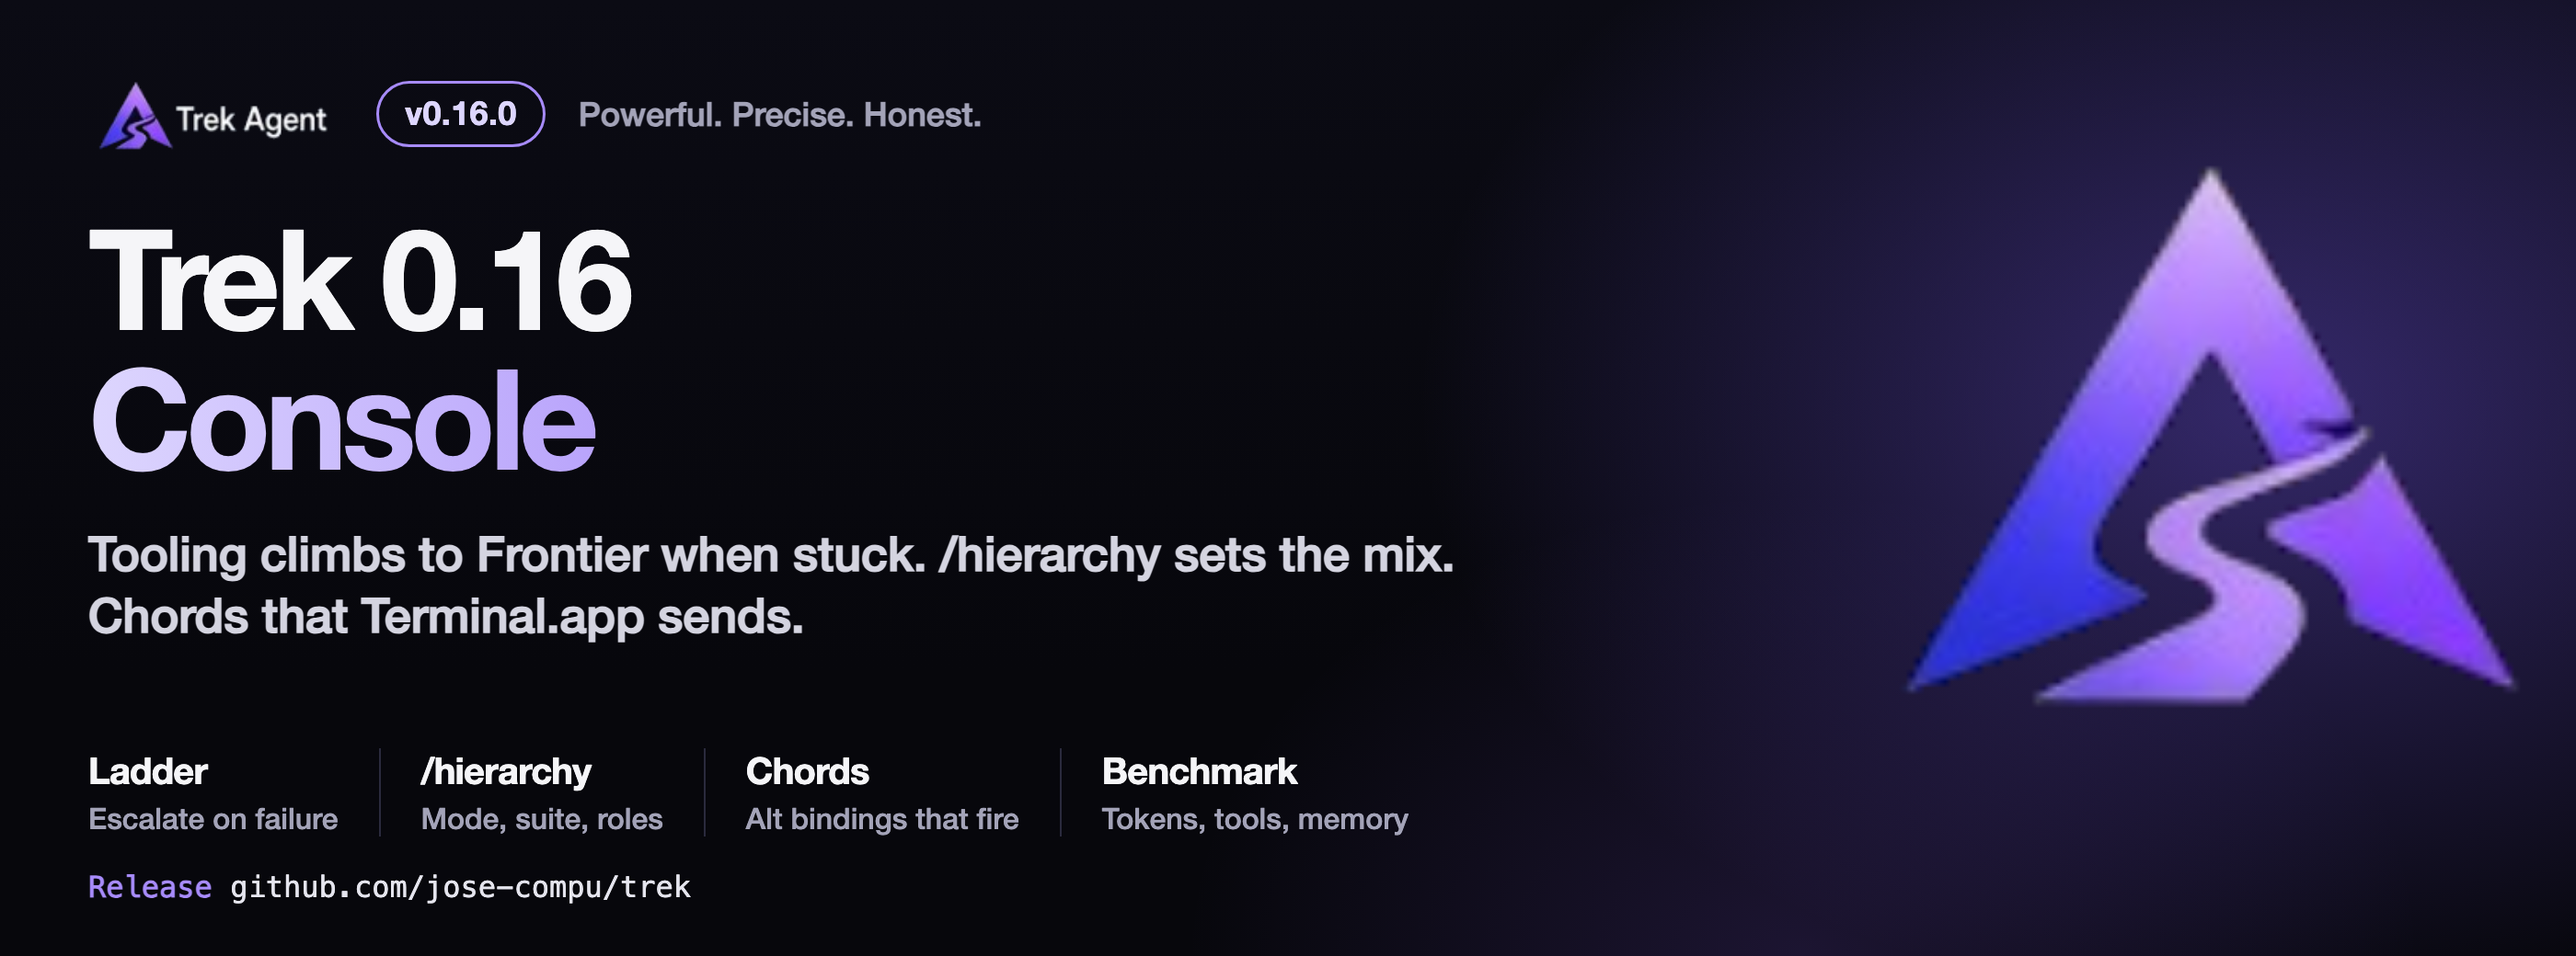
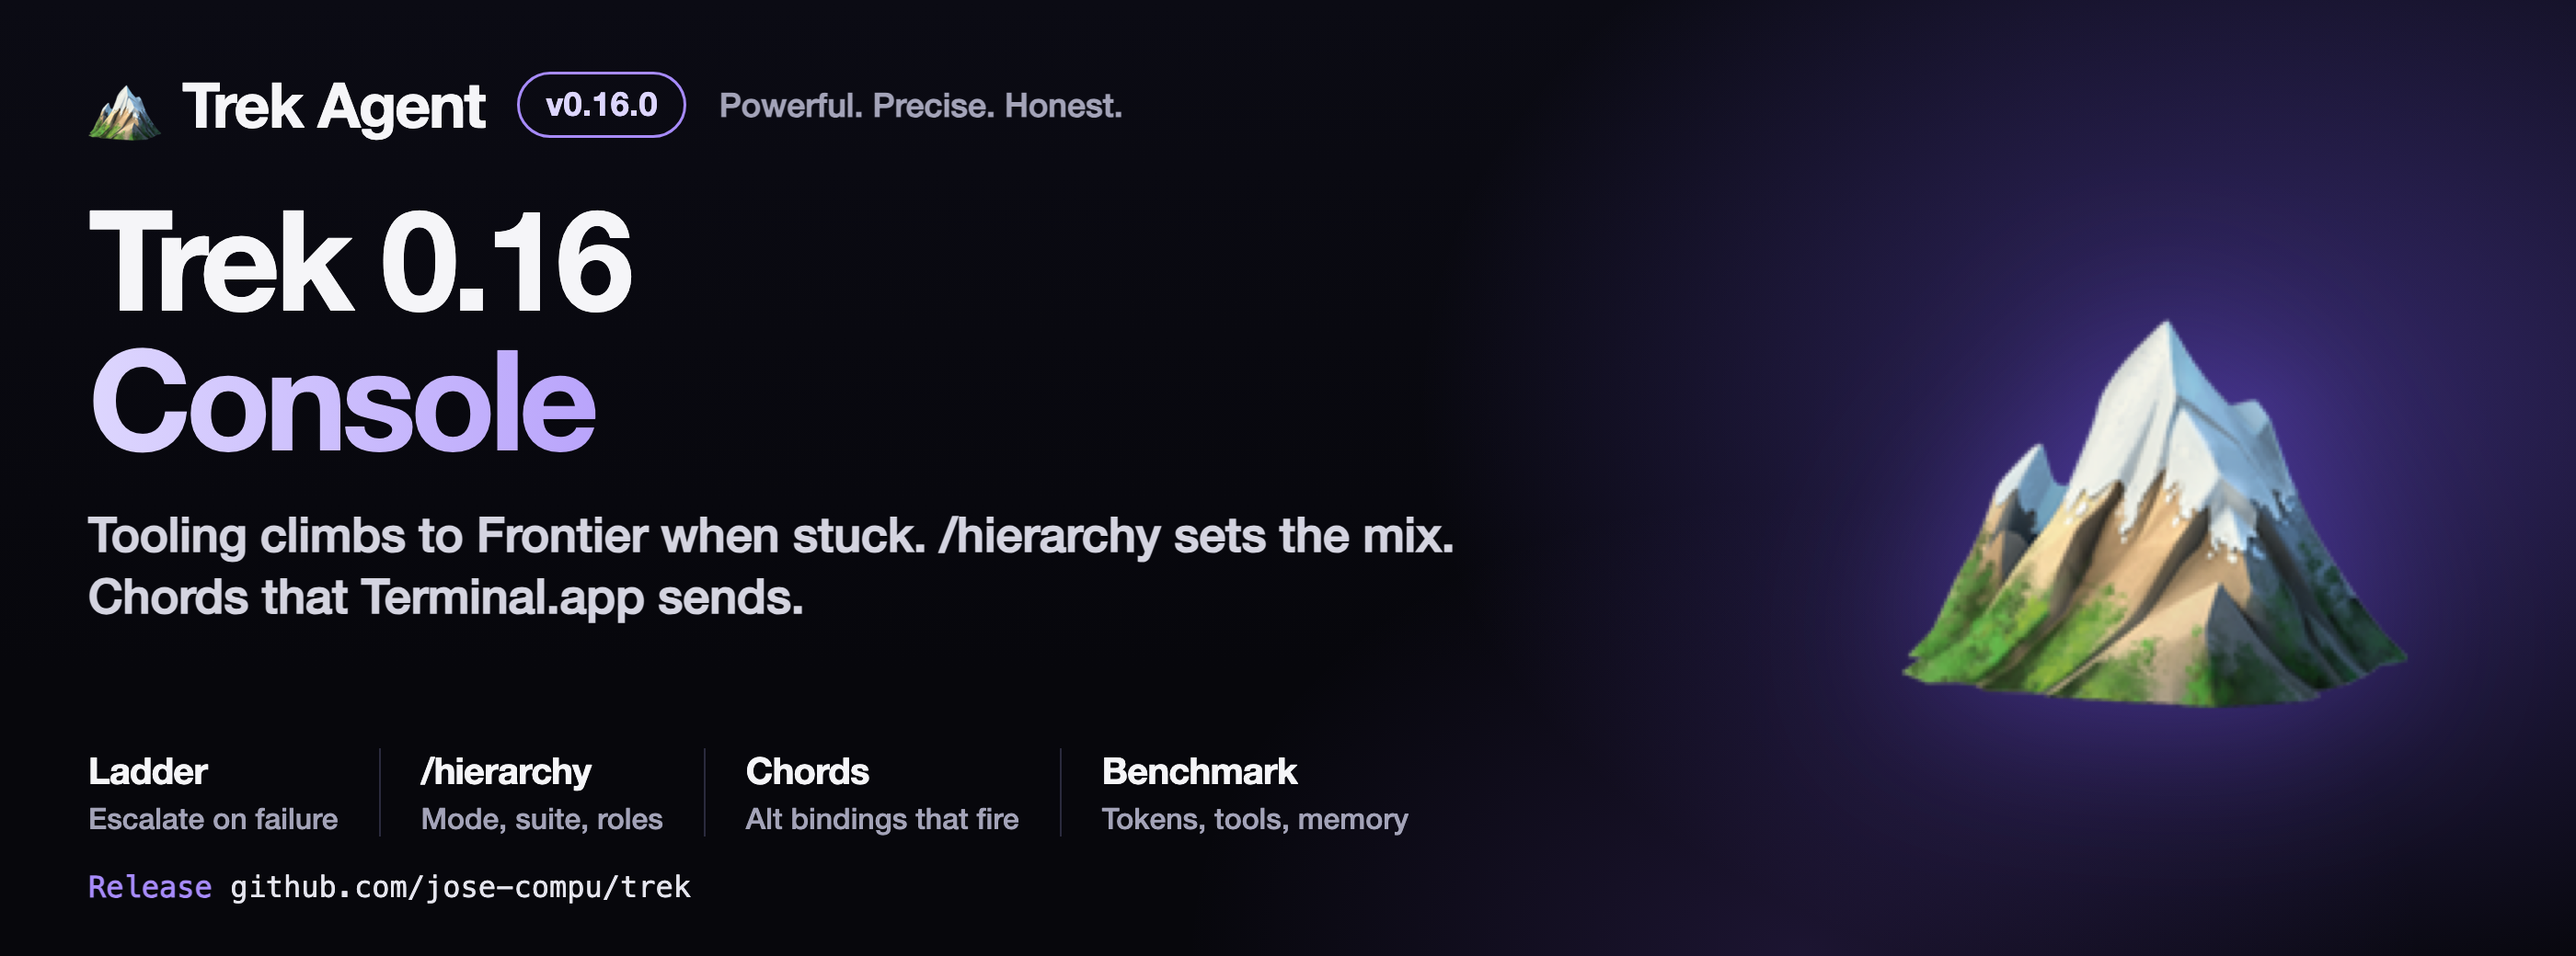
Use the mountain emoji as the Trek mark.
Banner, cheatsheet, and the interactive header show 🏔 instead of the low-res clipped triangle.

diff --git a/assets/banner.html b/assets/banner.html
@@ -3,7 +3,6 @@
 <head>
 <meta charset="utf-8" />
 <title>Trek Agent 0.16</title>
-<!-- Logos are clipped from brand/trek-identity.jpg by scripts/clip-brand-logos.sh. Do not redraw them here. -->
 <style>
   :root {
     --void: #07070c;
@@ -32,12 +31,17 @@
   }
   .mark {
     position: absolute;
-    right: 28px;
+    right: 48px;
     top: 70px;
     width: 360px;
     height: 360px;
-    object-fit: contain;
+    display: flex;
+    align-items: center;
+    justify-content: center;
+    font-size: 280px;
+    line-height: 1;
     pointer-events: none;
+    filter: drop-shadow(0 0 48px rgba(124, 92, 255, 0.45));
   }
   .inner {
     position: relative;
@@ -49,7 +53,16 @@
   }
   .copy { max-width: 920px; }
   .head { display: flex; align-items: center; gap: 18px; }
-  .lockup { height: 52px; width: auto; }
+  .lockup {
+    display: flex;
+    align-items: center;
+    gap: 12px;
+    font-size: 34px;
+    font-weight: 750;
+    letter-spacing: -0.03em;
+    color: var(--text);
+  }
+  .lockup .emoji { font-size: 40px; line-height: 1; }
   .badge {
     border: 1.5px solid var(--glow);
     color: #ddd6fe;
@@ -112,11 +125,11 @@
 </head>
 <body>
   <div class="banner">
-    <img class="mark" src="brand/logos/mark-hero.png" alt="" />
+    <div class="mark" aria-hidden="true">🏔</div>
     <div class="inner">
       <div class="copy">
         <header class="head">
-          <img class="lockup" src="brand/logos/lockup-dark-full.png" alt="Trek Agent" />
+          <div class="lockup"><span class="emoji" aria-hidden="true">🏔</span> Trek Agent</div>
           <div class="badge">v0.16.0</div>
           <div class="tagline">Powerful. Precise. Honest.</div>
         </header>

diff --git a/assets/cheatsheet.html b/assets/cheatsheet.html
@@ -37,7 +37,16 @@
     gap: 18px;
     padding: 8px 8px 4px;
   }
-  .lockup { height: 54px; width: auto; }
+  .lockup {
+    display: flex;
+    align-items: center;
+    gap: 12px;
+    font-size: 32px;
+    font-weight: 750;
+    letter-spacing: -0.03em;
+    color: var(--ink);
+  }
+  .lockup .emoji { font-size: 40px; line-height: 1; }
   h1 {
     font-size: 42px;
     line-height: 0.95;
@@ -148,7 +157,7 @@
 <body>
   <div class="sheet">
     <header>
-      <img class="lockup" src="brand/logos/lockup-light-violet.png" alt="Trek Agent" />
+      <div class="lockup"><span class="emoji" aria-hidden="true">🏔</span> Trek Agent</div>
       <h1>Cheatsheet<span>The session, the domain, the lesson.</span></h1>
       <div class="tagline">Powerful. Precise. Honest.</div>
     </header>

diff --git a/packages/coding-agent/src/modes/interactive/interactive-mode.ts b/packages/coding-agent/src/modes/interactive/interactive-mode.ts
@@ -684,7 +684,7 @@ export class InteractiveMode {
 
 		// Add header with keybindings from config (unless silenced)
 		if (this.options.verbose || !this.settingsManager.getQuietStartup()) {
-			const logo = theme.bold(theme.fg("accent", APP_NAME)) + theme.fg("dim", ` v${this.version}`);
+			const logo = theme.bold(theme.fg("accent", `🏔 ${APP_NAME}`)) + theme.fg("dim", ` v${this.version}`);
 
 			// Build startup instructions using keybinding hint helpers
 			const hint = (keybinding: AppKeybinding, description: string) => keyHint(keybinding, description);
